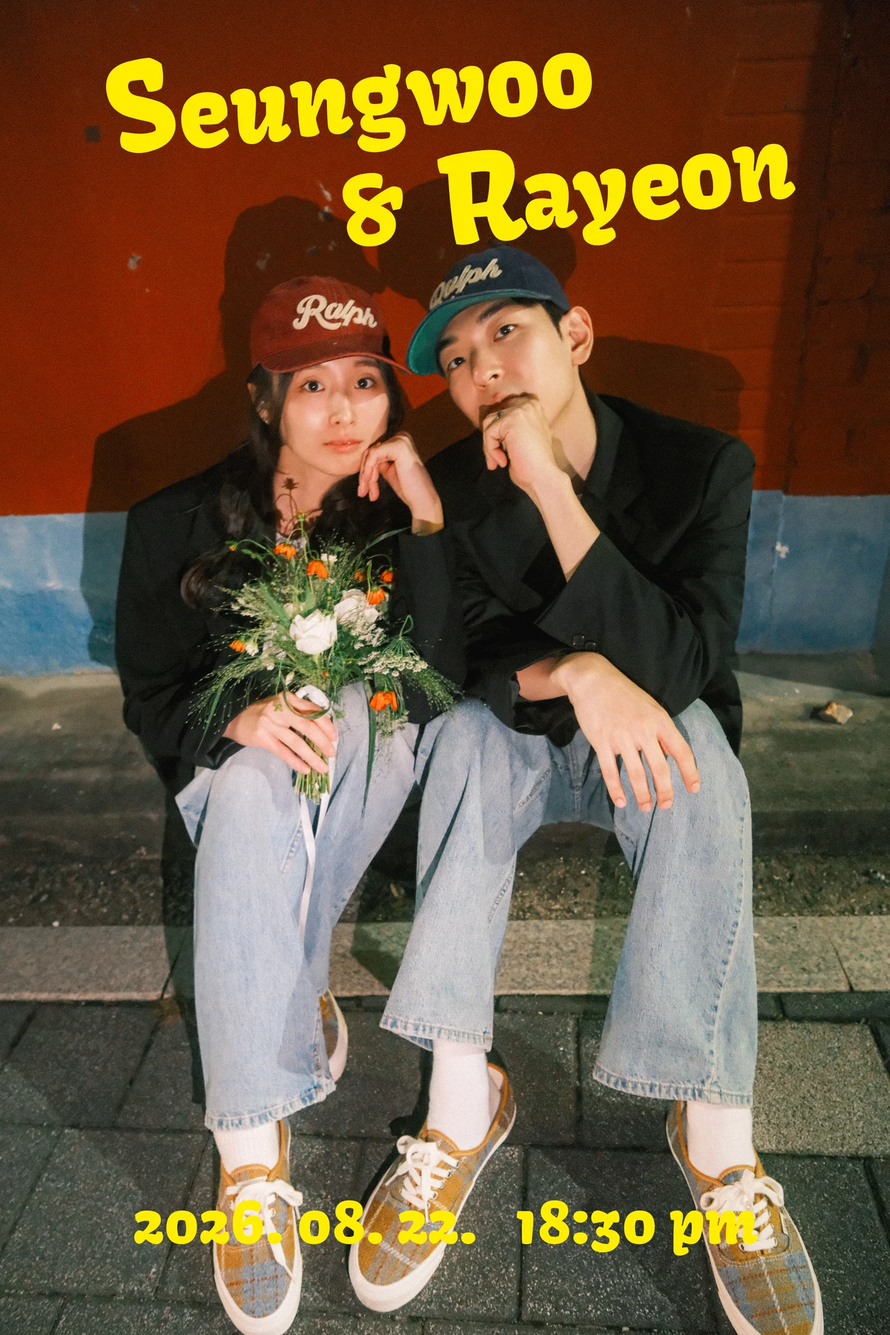
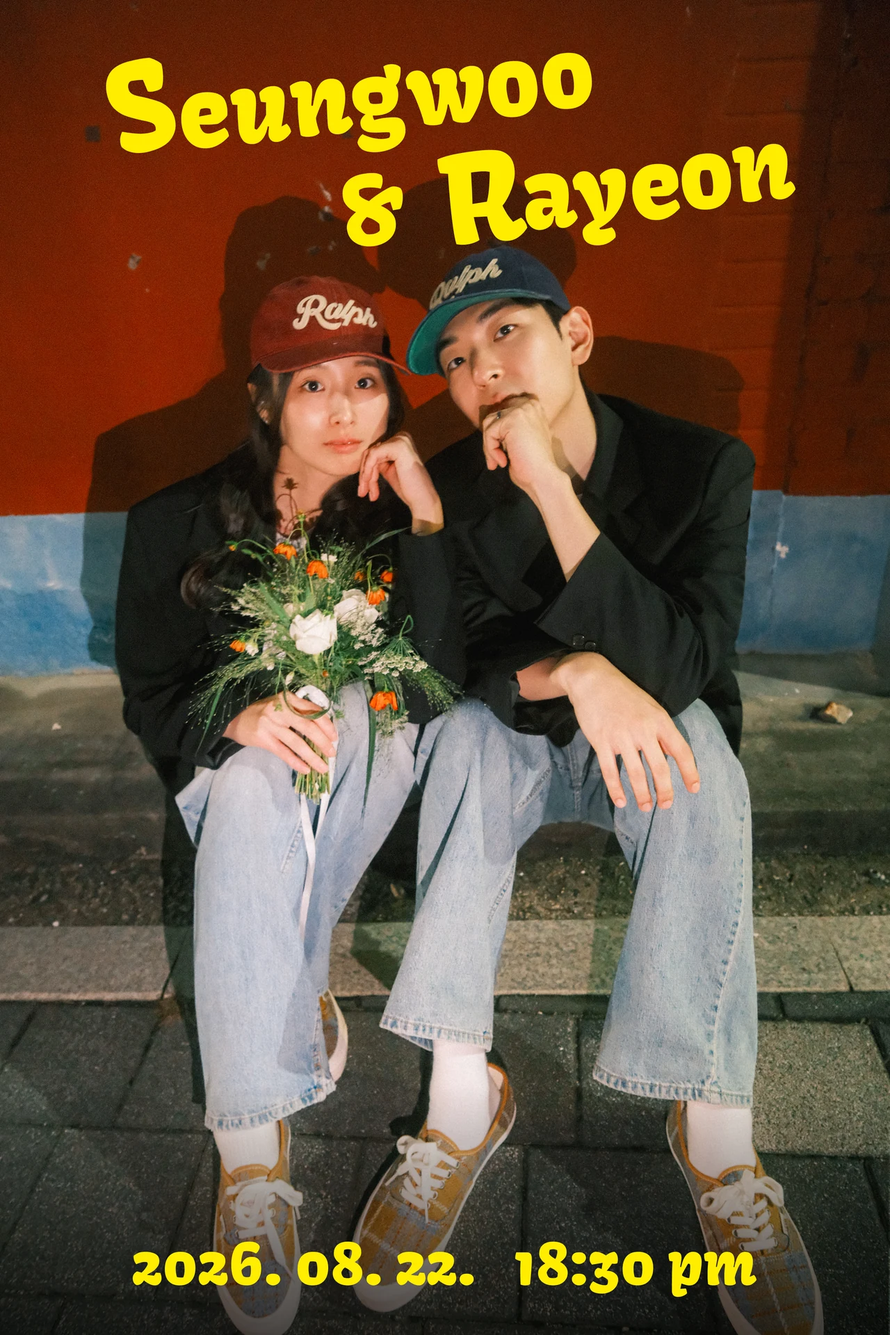
Refresh hero image with poster-style gradient overlay

Changed region(s): [[0.0, 0.8125, 1.0, 1.0]]

diff --git a/css/style.css b/css/style.css
@@ -79,6 +79,17 @@ button { font-family: inherit; cursor: pointer; }
   width: 100%;
 }
 
+.hero-poster-wrap::after {
+  content: '';
+  position: absolute;
+  left: 0;
+  right: 0;
+  bottom: 0;
+  height: 28%;
+  background: linear-gradient(to bottom, rgba(0,0,0,0) 0%, rgba(0,0,0,0.55) 70%, rgba(0,0,0,0.7) 100%);
+  pointer-events: none;
+}
+
 .hero-poster-img {
   width: 100%;
   height: auto;
